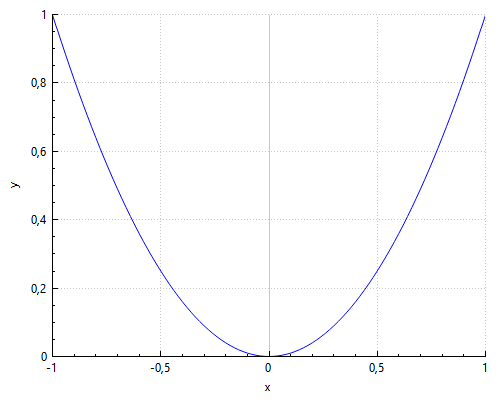
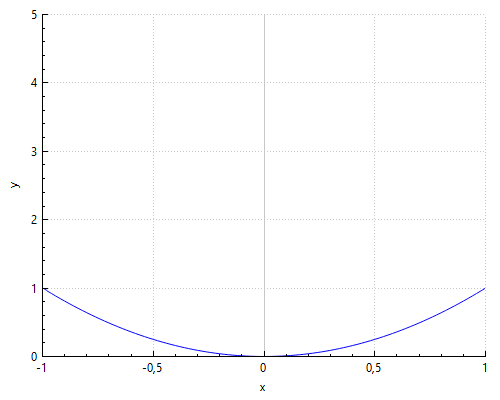
reworked calculations, fixed btns

diff --git a/mainwindow.cpp b/mainwindow.cpp
@@ -16,8 +16,34 @@ MainWindow::~MainWindow()
     delete ui;
 }
 
+void MainWindow::on_fxCalculateBtn_clicked()
+{
+    double a = ui->aFxSpinBox->value();
+    double b = ui->bFxSpinBox->value();
+    double c = ui->cFxSpinBox->value();
+    double delta = (qPow(b,2) - (4*a*c));
+    if(delta>0) {
+        double x1 = (((-1)*b-qSqrt(delta))/(2*a));
+        double x2 = (((-1)*b+qSqrt(delta))/(2*a));
+        QString x1label = QString::number(x1, 'f', 3);
+        QString x2label = QString::number(x2, 'f', 3);
+        ui->fxX1Label->setText(x1label);
+        ui->fxX2Label->setText(x2label);
+    }
+    else if(delta==0) {
+        double x0 = (((-1)*b)/(2*a));
+        QString x0label = QString::number(x0, 'f', 3);
+        ui->fxX1Label->setText(x0label);
+        ui->fxX2Label->setText(NULL);
+    }
+    else {
+        ui->fxX1Label->setText("Brak miejsc zerowych f(x)");
+        ui->fxX2Label->setText(NULL);
+    }
+}
 
-void MainWindow::calculateVectorBtn()
+
+void MainWindow::on_calculateVectorBtn_clicked()
 {
     double Xa = ui->spinBoxXa->value();
     double Ya = ui->spinBoxYa->value();
@@ -29,15 +55,14 @@ void MainWindow::calculateVectorBtn()
 }
 
 
-
-void MainWindow::generatePlotBtn()
+void MainWindow::on_generatePlotBtn_clicked()
 {
     QVector<double> x(101), y(101);
     for(int i=0; i<101; ++i) {
         x[i] = i/50.0-1;
         y[i] = x[i]*x[i];
     }
-    //ui->plot->addGraph(); idk czy tu tez musze dodawac, w razie czego jest replot()
+    ui->plot->addGraph();
     ui->plot->graph(0)->setData(x,y); //z dokumentacji, testowy wykres
     double axisRange = ui->axisSpinBox->value();
     ui->plot->xAxis->setRange(-1,1);
@@ -46,7 +71,7 @@ void MainWindow::generatePlotBtn()
 }
 
 
-void MainWindow::savePlotBtn()
+void MainWindow::on_savePlotBtn_clicked()
 {
     QString filename = "plot.png"; //dodac moze wzor do nazwy pliku idk
     QString outputDir = "C:/Users/Mirek/Desktop/pwr-calc"; //zmienic na dialog z wyborem miejsca zapisu

diff --git a/mainwindow.h b/mainwindow.h
@@ -22,6 +22,8 @@ private slots:
 
     void savePlotBtn();
 
+    void on_fxCalculateBtn_clicked();
+
 private:
     Ui::MainWindow *ui;
 };
